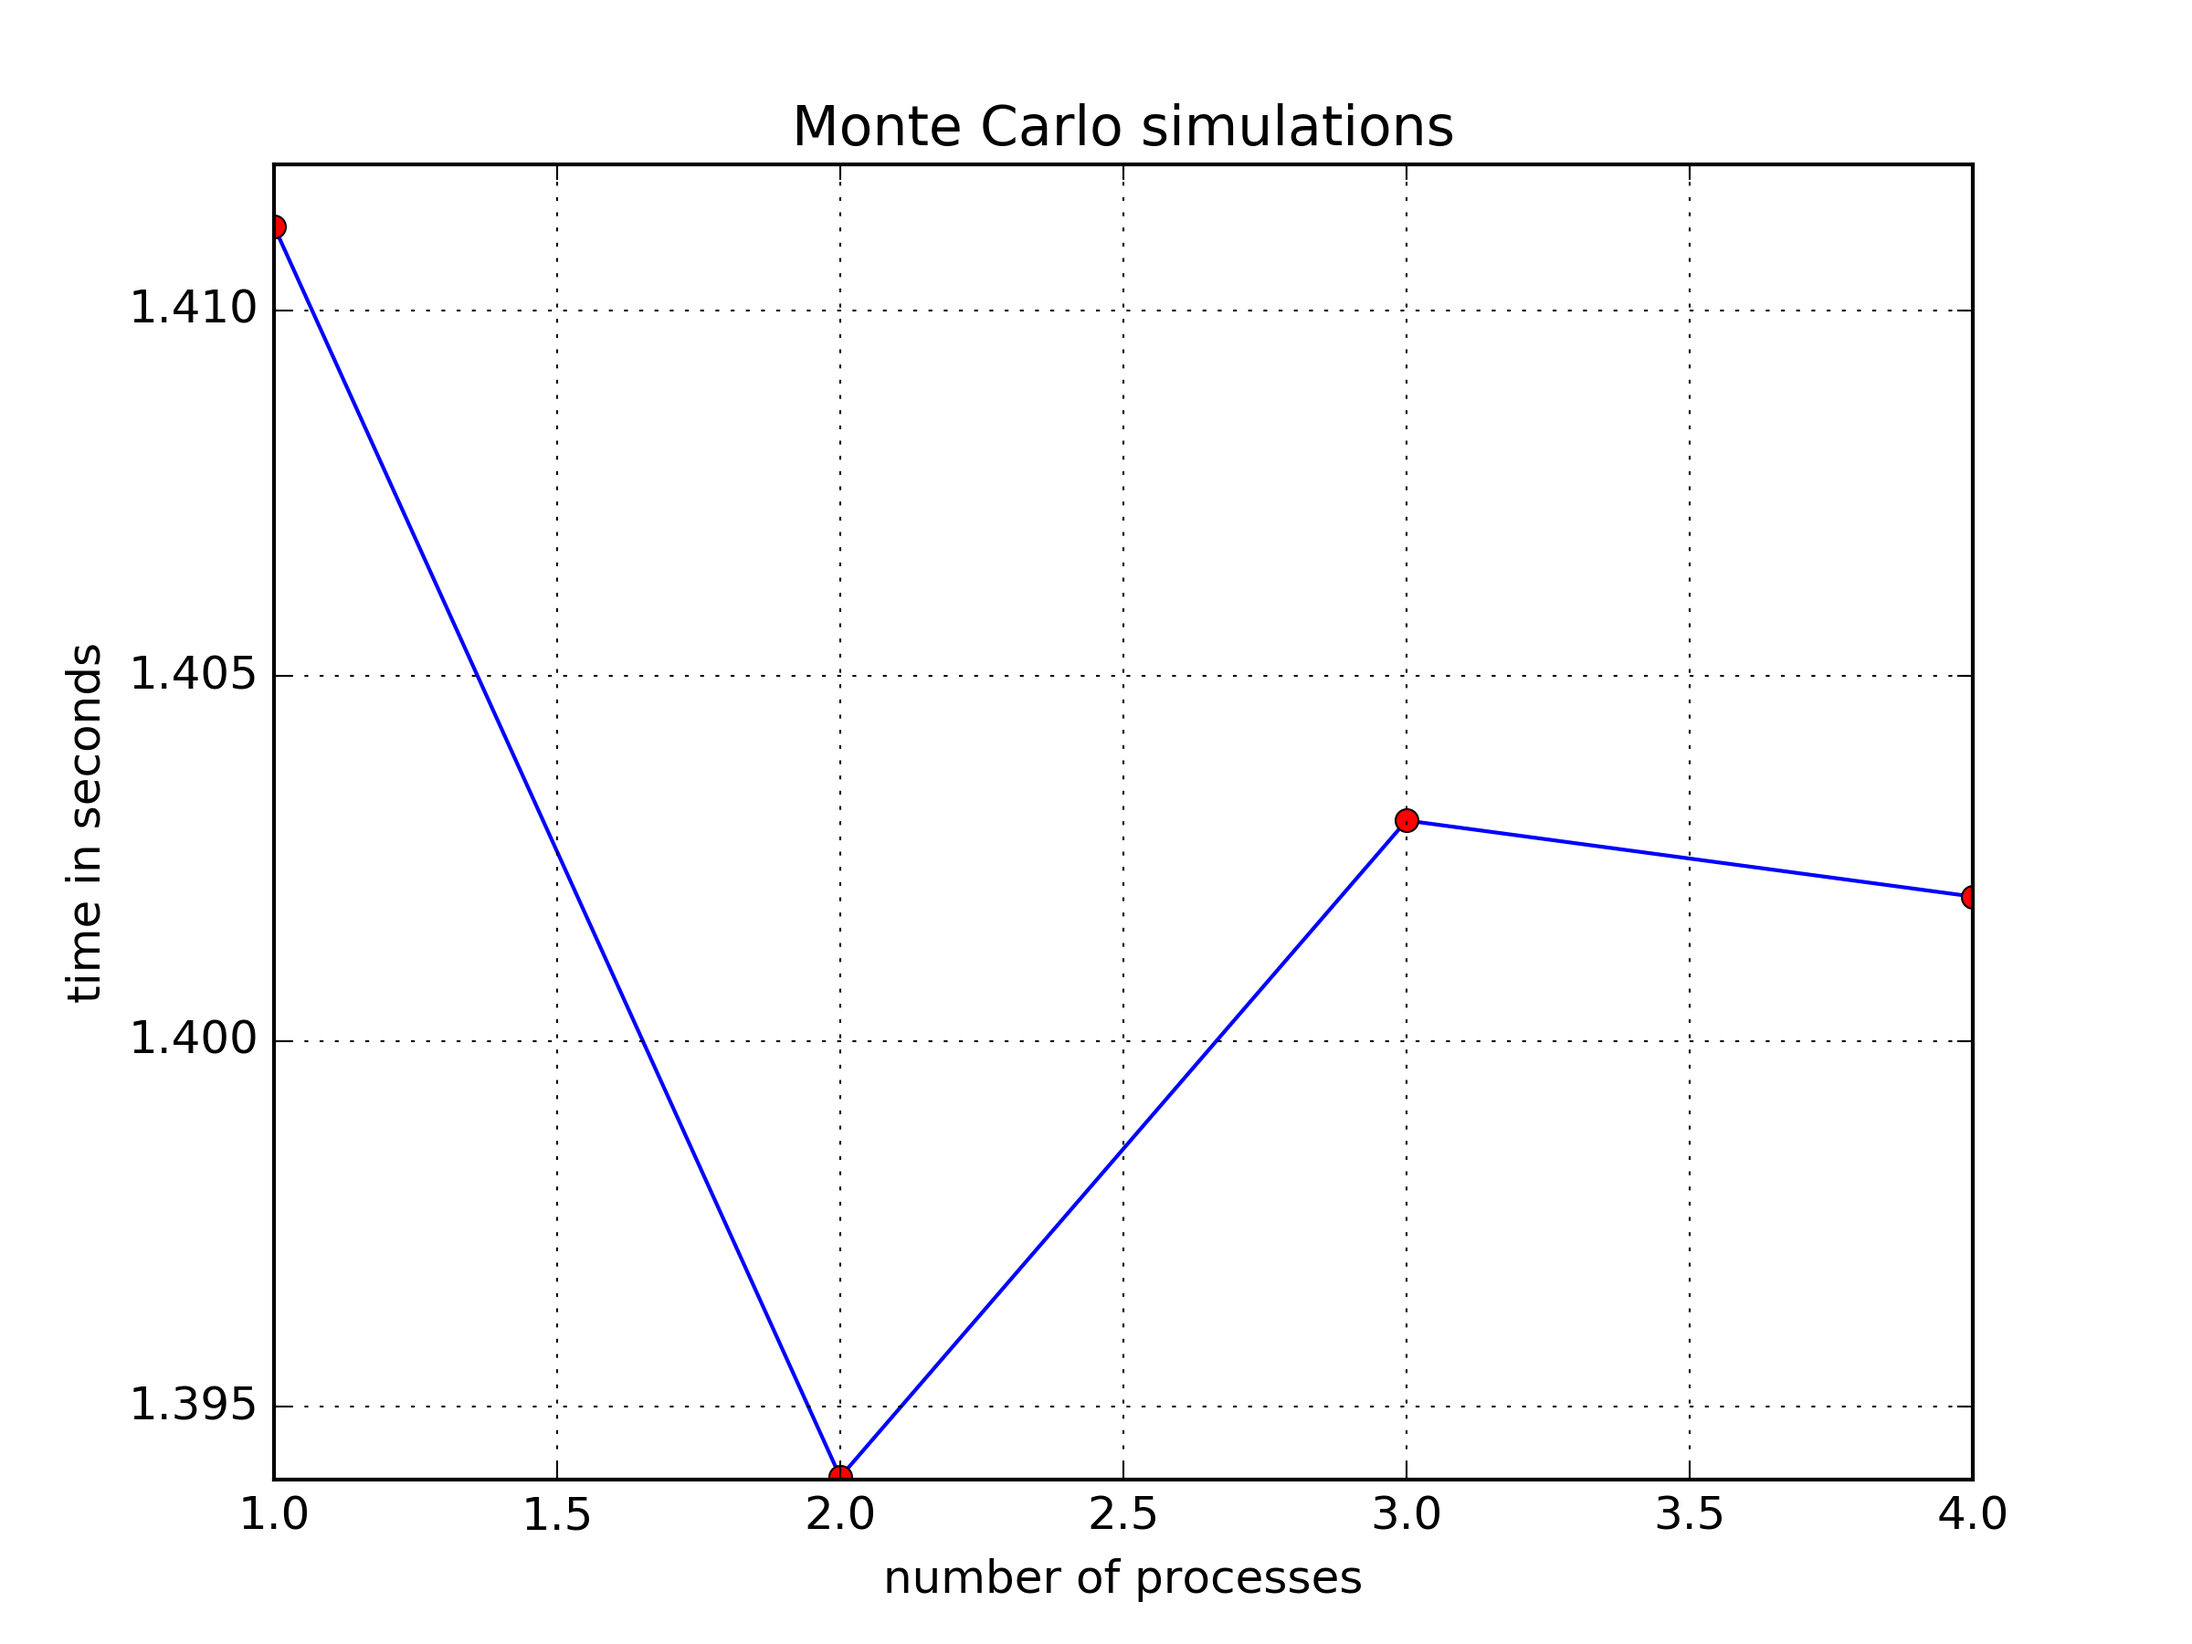
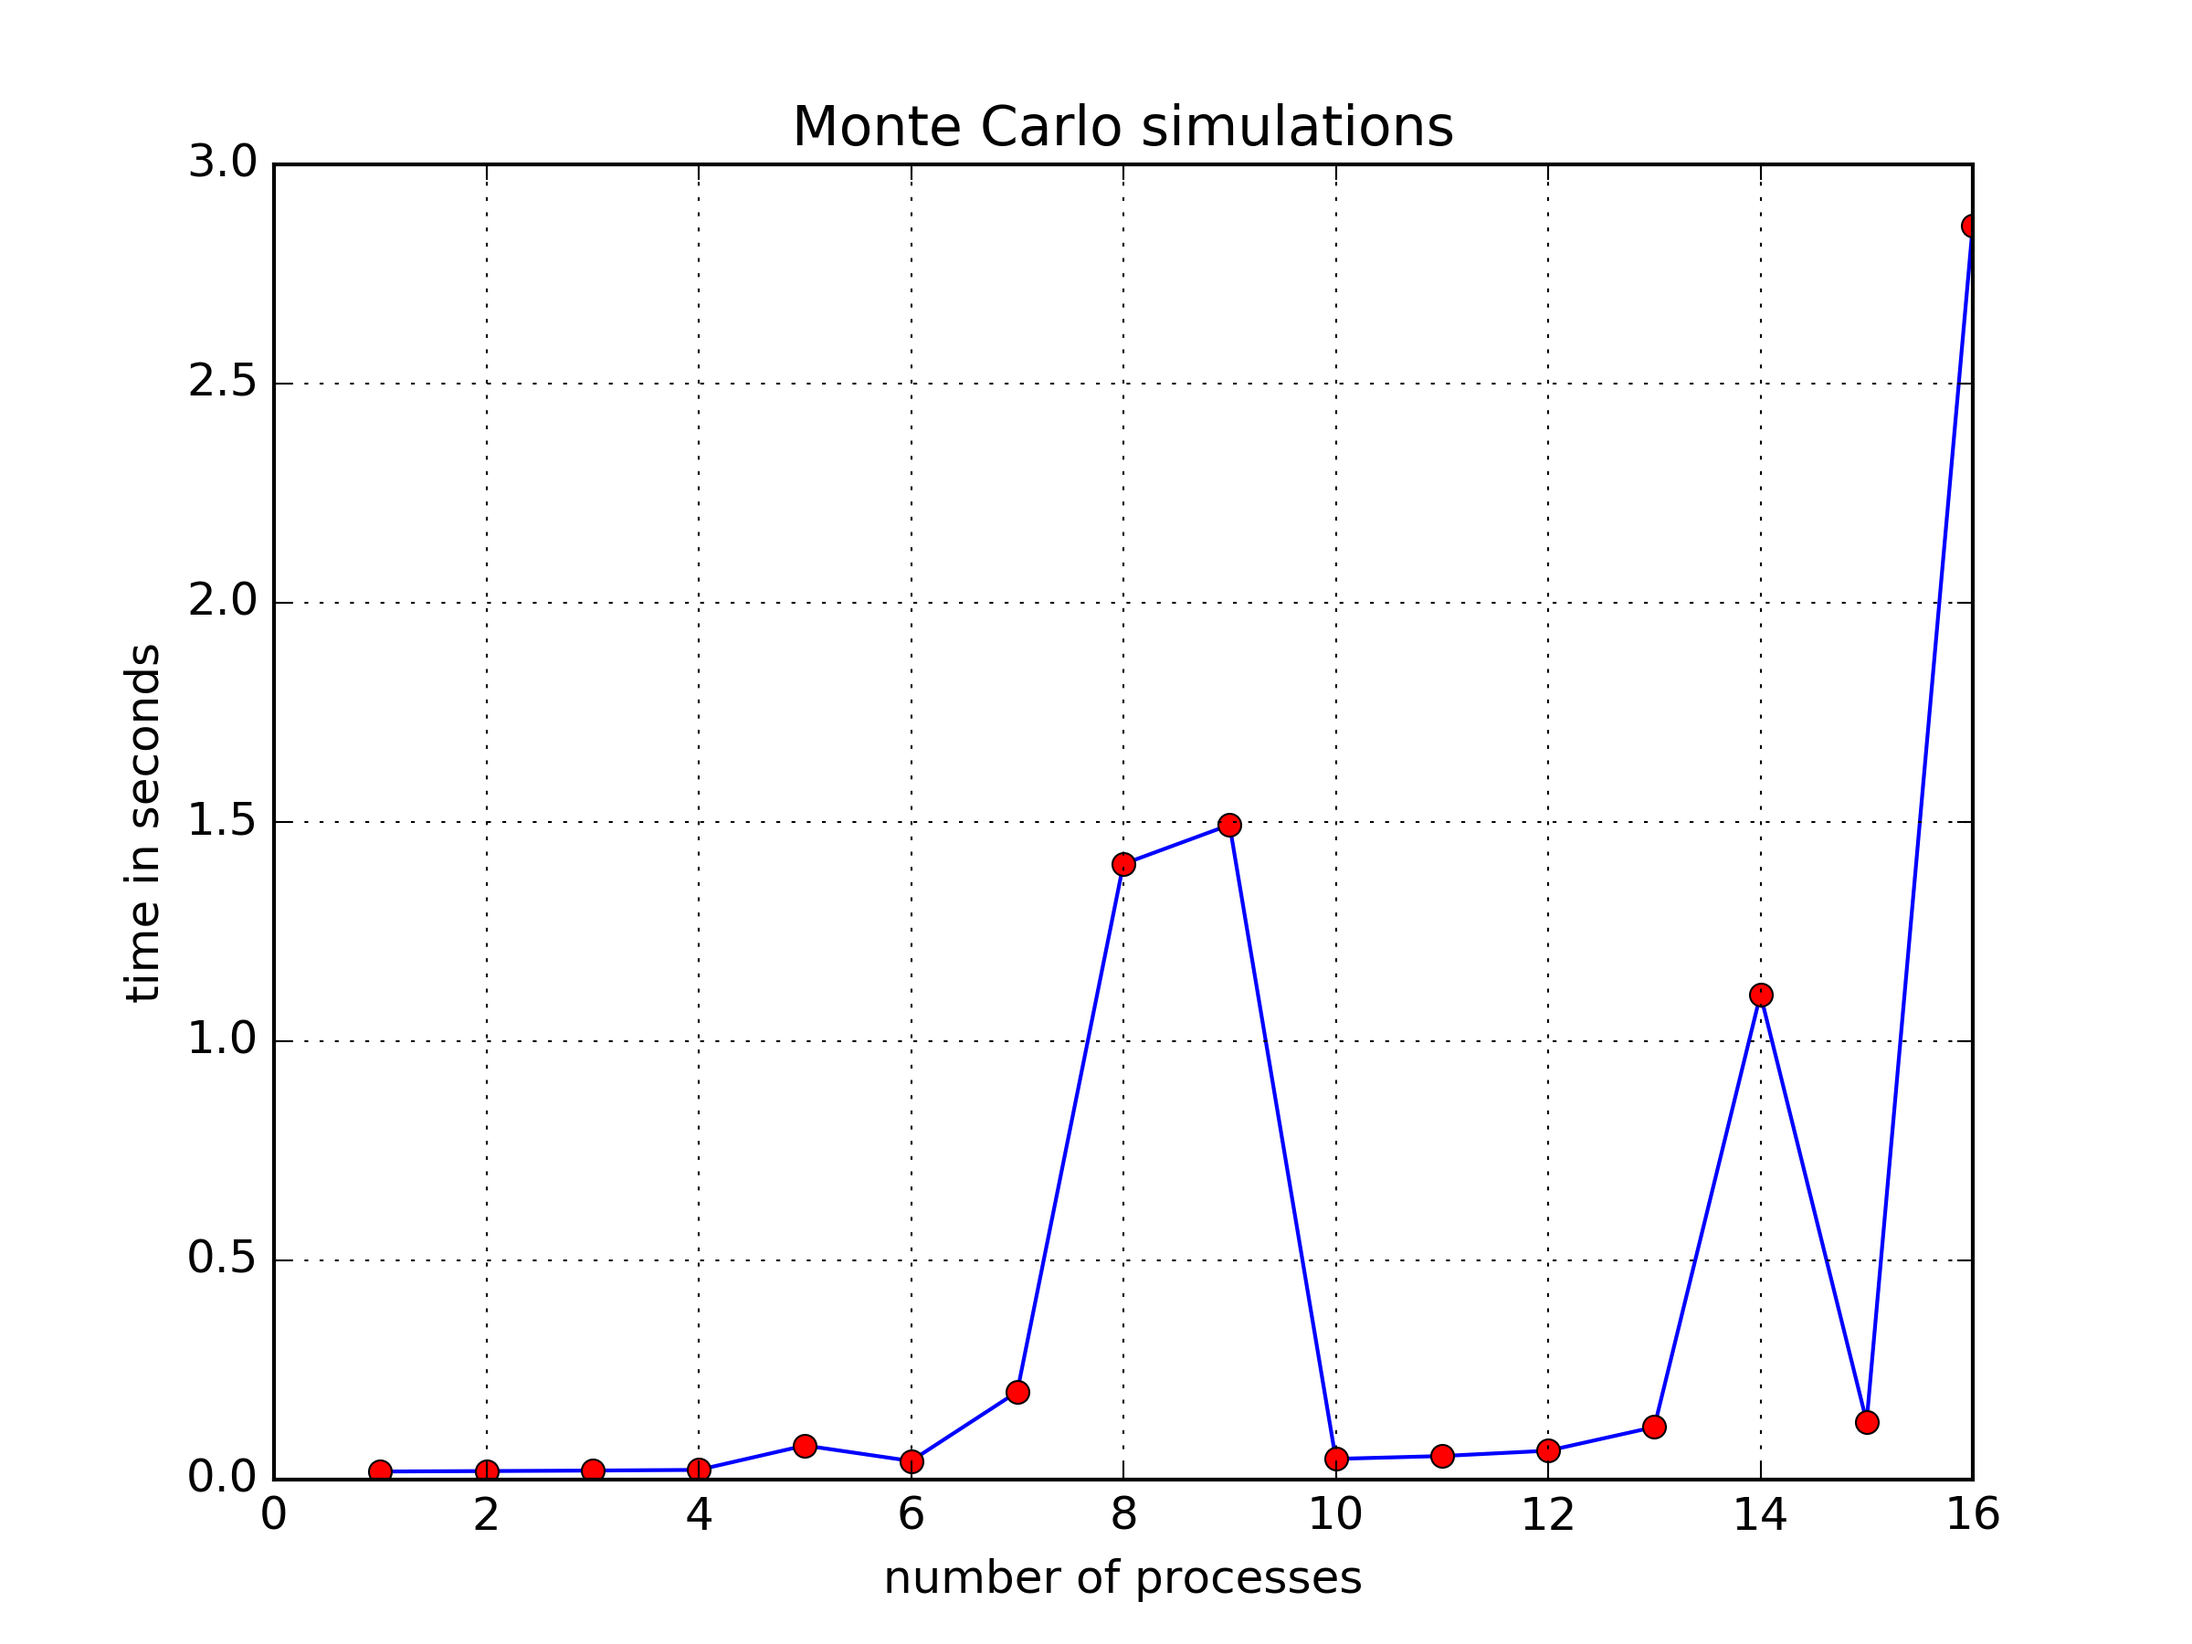
just testing

diff --git a/8ch_scrap.py b/8ch_scrap.py
@@ -9,7 +9,7 @@ import pdb, time, timeit
 from math import *
 import numexpr as ne
 import numpy as np
-import numba as nb
+# import numba as nb
 import multiprocessing as mp
 
 
@@ -189,7 +189,7 @@ def parallel_analysis(num):
     strikes = np.linspace(80, 120, num)
     from time import time
     times = []
-    for w in range(1, 5):
+    for w in range(1, 17):
         t0 = time()
         pool = mp.Pool(processes=w)
         # the pool of workers
@@ -197,8 +197,8 @@ def parallel_analysis(num):
         result = pool.map(simulate_geometric_brownian_motion, t * [(M, I), ])
         # the mapping of the function to the list of parameter tuples
         times.append(time() - t0)
-    plt.plot(range(1, 5), times)
-    plt.plot(range(1, 5), times, 'ro')
+    plt.plot(range(1, 17), times)
+    plt.plot(range(1, 17), times, 'ro')
     plt.grid(True)
     plt.xlabel('number of processes')
     plt.ylabel('time in seconds')
@@ -425,6 +425,6 @@ def f_py(I, J):
 if __name__ == '__main__':
     # paradigms()
     # memory_layout()
-    # parallel_computing()
-    # parallel_analysis(5)
-    dynamic_compiling()
+    parallel_computing()
+    parallel_analysis(5)
+    # dynamic_compiling()
